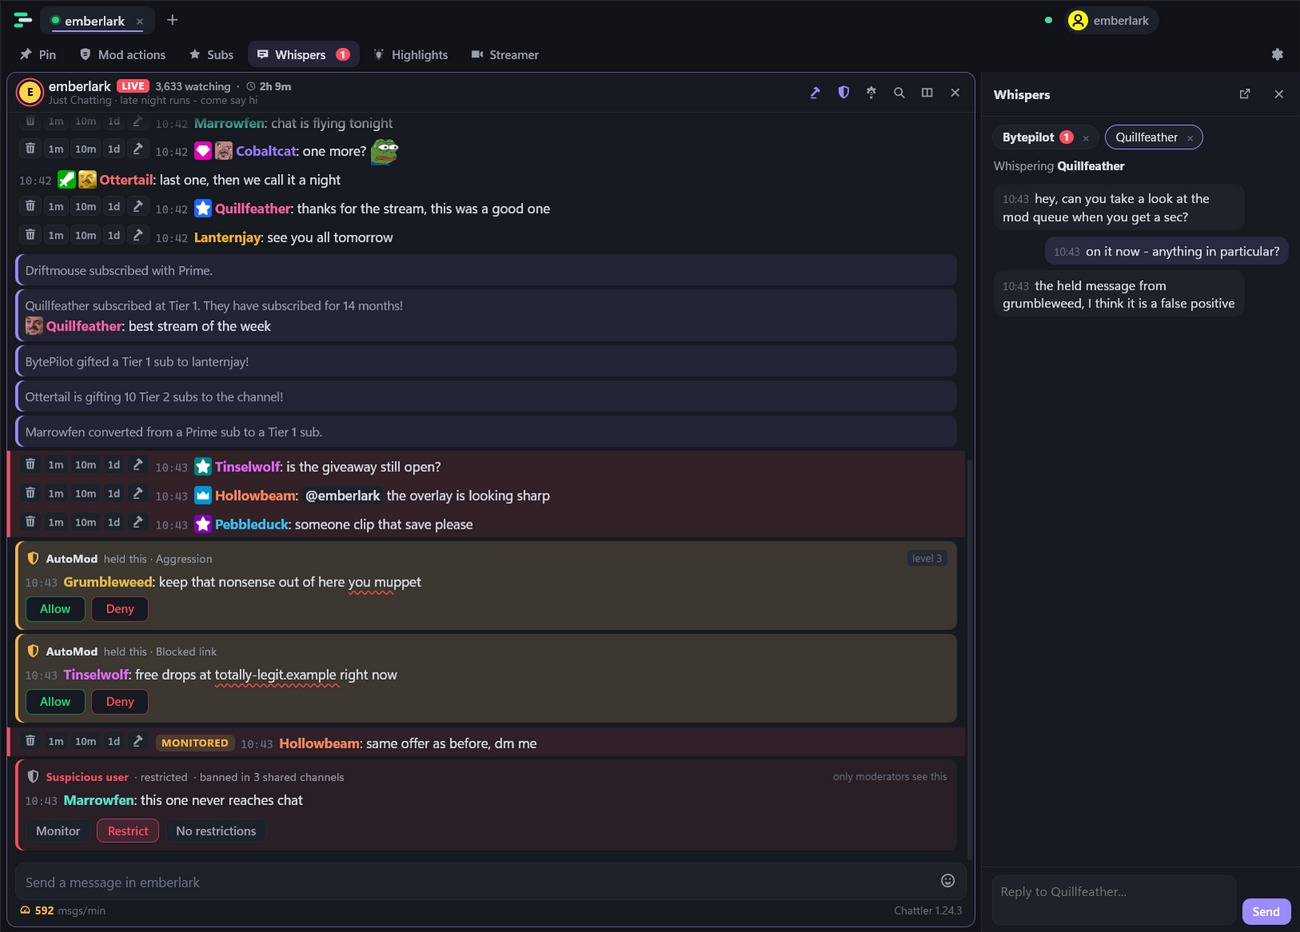
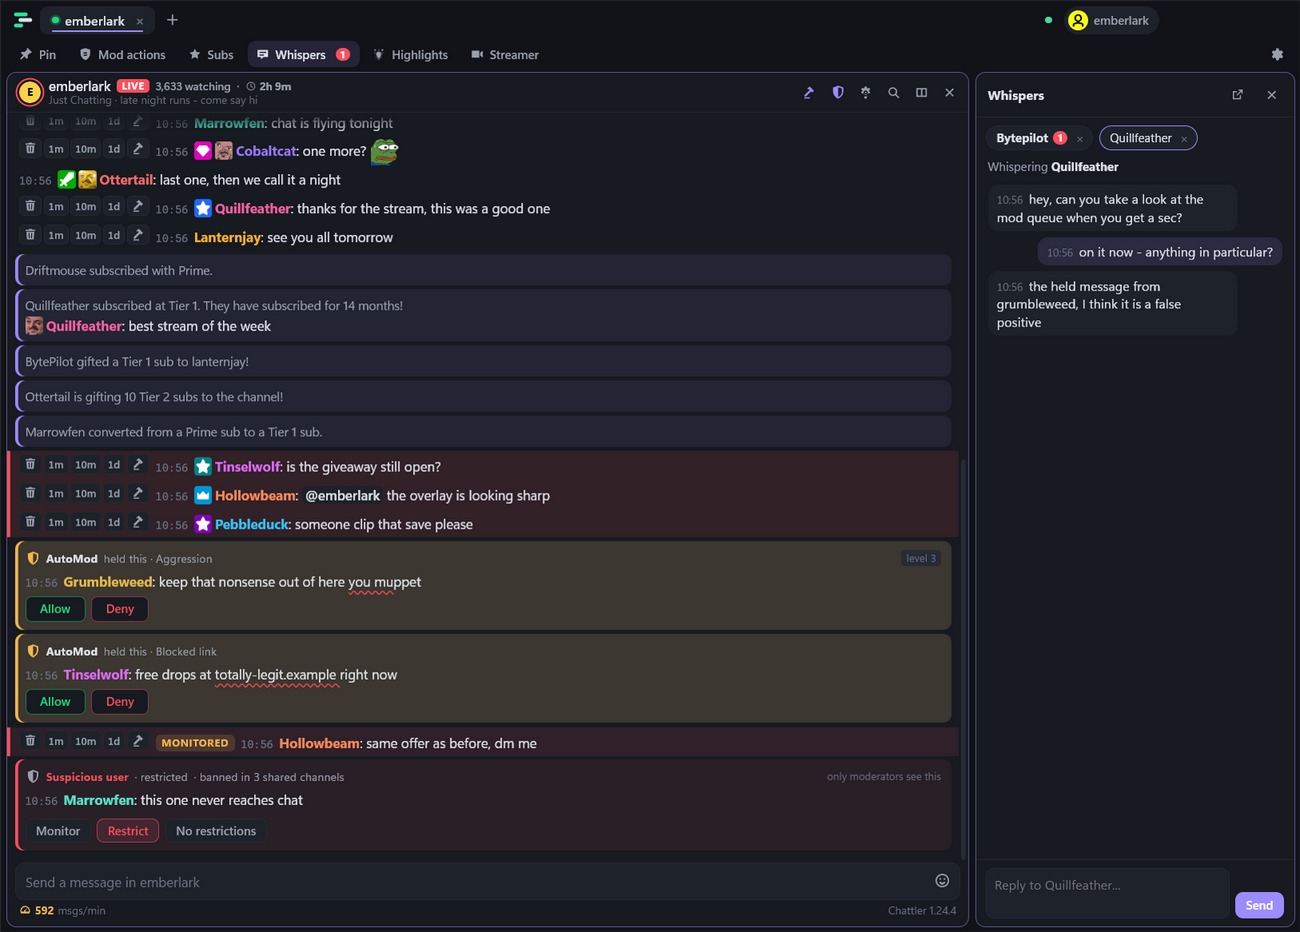
Update website

diff --git a/docs/index.html b/docs/index.html
@@ -42,7 +42,7 @@
   "description": "A fast, free Twitch chat client for Windows with tabs and splits, 7TV, BetterTTV and FrankerFaceZ emotes, and one-click moderation tools including AutoMod, staff history and user cards.",
   "applicationCategory": "CommunicationApplication",
   "operatingSystem": "Windows 10, Windows 11",
-  "softwareVersion": "1.24.3",
+  "softwareVersion": "1.24.4",
   "releaseNotes": "https://chattler.net/#releases",
   "downloadUrl": "https://chattler.net/#download",
   "installUrl": "https://chattler.net/#download",
